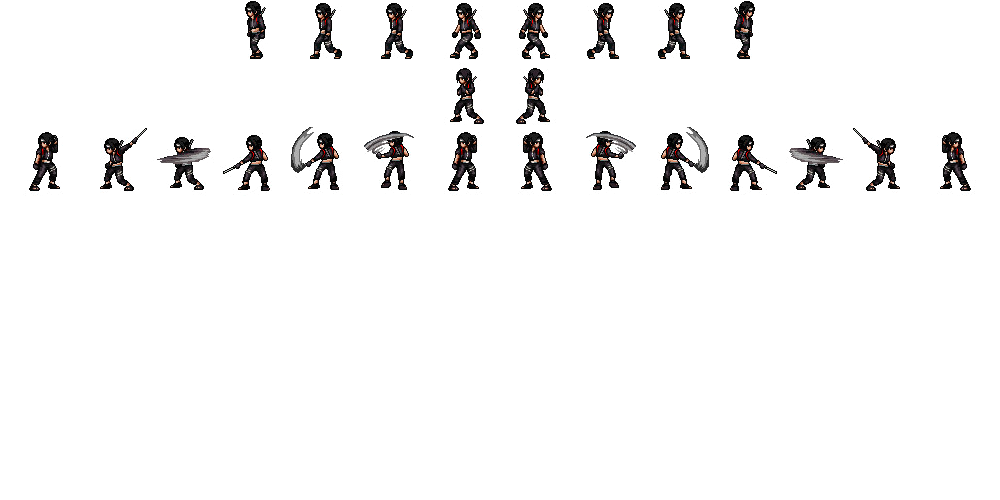
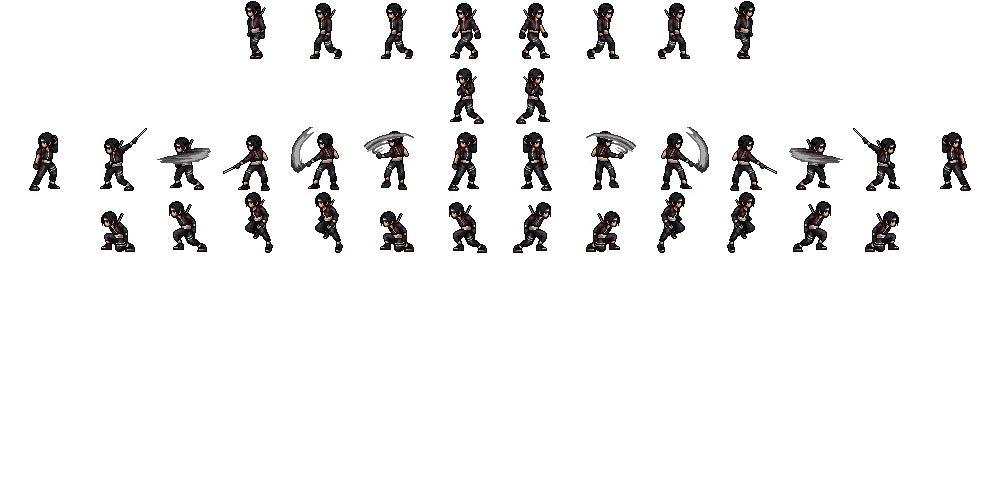
add jump move

diff --git a/ninja/js/ninja.js b/ninja/js/ninja.js
@@ -8,14 +8,16 @@ $(function() {
 		this.events();
 		this.sprite_positions = {
 			stand_r: '-500px -59px',
-			stand_l: '-440px -59px',
+			stand_l: '-430px -59px',
 			sprite_moving_animation_r: ['-500px 5px', '-570px 5px', '-640px 5px', '-710px 5px'],
-			sprite_moving_animation_l: ['-430px 5px', '-370px 5px', '-300px 5px', '-230px 5px'],
+			sprite_moving_animation_l: ['-425px 5px', '-365px 5px', '-295px 5px', '-225px 5px'],
 			sprite_atacking_animation_l: ['-430px -128px', '-360px -128px', '-290px -128px', '-220px -128px', '-150px -128px', '-80px -128px', '-20px -128px'],
-			sprite_atacking_animation_r: ['-500px -128px', '-570px -128px', '-640px -128px', '-710px -128px', '-780px -128px', '-850px -128px', '-920px -128px']
+			sprite_atacking_animation_r: ['-500px -128px', '-570px -128px', '-640px -128px', '-710px -128px', '-780px -128px', '-850px -128px', '-920px -128px'],
+			sprite_jumping_animation_r: ['-500px -191px', '-570px -191px', '-640px -191px', '-710px -191px', '-780px -191px', '-850px -191px'],
+			sprite_jumping_animation_l: ['-430px -191px', '-360px -191px', '-290px -191px', '-220px -191px', '-150px -191px', '-80px -191px']
 		};
 		this.speed = 0;
-		this.power = 0.3;
+		this.power = 0.5;
 		this.friction = 0.5;
 		console.log(this['sprite_moving_animation_' + 'r']);
 	}
@@ -27,36 +29,75 @@ $(function() {
 		$(document).on('keydown', function(event) {
 			//console.log(event.keyCode);
 			current_position = self.ninja.offset().left;
+			current_y_position = self.ninja.offset().top;
 
-			if(event.keyCode === 39) {
+			if (event.keyCode === 39) {
 				self.side = 'r';
 				self.moving(current_position);
 			}
-			if(event.keyCode === 37) {
+			if (event.keyCode === 37) {
 				self.side = 'l';
 				self.moving(current_position);
 			}
-			if(event.keyCode === 32) {
-				self.atack(current_position);
+			if (event.keyCode === 38) {
+				self.jump(current_y_position);
+			}
+
+			if (event.keyCode === 32) {
+				self.atack();
 			}
 		});
 
 		$(document).on('keyup', function(event) {
 			//console.log(event.keyCode);
 			var key = event.keyCode;
-
-			if(key === 39 || key === 37) {
+			if (key === 39 || key === 37) {
 				self.stop_moving();
 			}
 		});
 	};
 
-	Ninja.prototype.ninja_animate = function(animation) {
+
+	Ninja.prototype.moving = function(current_position) {
+		var self = this;
+
+		if (!this.animate) {
+			this.animate = true;
+			this.ninja_animate();
+		}
+		if (!this.ninja_is_moving) {
+			this.ninja_is_moving = true;
+			this.moving_coordinates = setInterval(function() {
+				if (self.side === 'r') {
+					self.speed += self.power;
+				}
+				if (self.side === 'l') {
+					self.speed -= self.power;
+				}
+
+				self.ninja.offset({
+					left: self.ninja.offset().left + self.speed
+				});
+
+				if (self.ninja.offset().left <= self.container.offset().left - 5) {
+					self.ninja.offset({
+						left: self.container.offset().left - 5
+					});
+				}
+				if (self.ninja.offset().left + self.ninja.width() - 15 >= self.container.offset().left + self.container.width()) {
+					self.ninja.offset({
+						left: self.container.offset().left + self.container.width() - self.ninja.width() + 15
+					});
+				}
+			}, 40);
+		}
+	};
+	Ninja.prototype.ninja_animate = function() {
 		var self = this;
 		var animation_sprites = this.sprite_positions['sprite_moving_animation_' + self.side];
 		var i = 0;
 		this.moving_animation = setInterval(function() {
-			if(i < animation_sprites.length) {
+			if (i < animation_sprites.length) {
 				self.ninja.css({
 					'background': 'url("img/ninja_new_strites.png") no-repeat',
 					'background-position': animation_sprites[i]
@@ -68,66 +109,79 @@ $(function() {
 		}, 100);
 	};
 
-	Ninja.prototype.moving = function(current_position) {
-		var moving_animation;
-		var sprite_count = 1;
-		var sprite_change_px = 0;
+	Ninja.prototype.jump_animate = function() {
 		var self = this;
-		if(!this.animate) {
-			this.animate = true;
-			this.ninja_animate(this.side);
-			/*this.moving_animation = setInterval(function() {
-				if(self.sprite_positions.move_right_x_pos > -700) {
-					self.ninja.css({
-						'background': 'url("img/ninja_new_strites.jpg") no-repeat',
-						'background-position': (self.sprite_positions.move_right_x_pos -= sprite_change_px)+'px '+self.sprite_positions.move_right_y_pos+'px'
-					});
-					sprite_change_px = 70;
-				} else {
-					self.sprite_positions.move_right_x_pos = -500;
-					sprite_change_px = 0;
-				}
-			}, 80);*/
-
-			this.moving_coordinates = setInterval(function() {
-				if(self.side === 'r') {
-					self.speed += self.power;
-				}
-				if(self.side === 'l') {
-					self.speed -= self.power;
-				}
-
-				self.ninja.offset({
-					left: self.ninja.offset().left + self.speed
+		var i = 0;
+		clearInterval(this.moving_animation);
+		this.animate = true;
+		var jumping_sprites = self.sprite_positions['sprite_jumping_animation_' + this.side];
+		this.jumping_animation = setInterval(function() {
+			if (i <= 2) {
+				self.ninja.css({
+					'background': 'url("img/ninja_new_strites.png") no-repeat',
+					'background-position': jumping_sprites[i]
 				});
-
-				//console.log(self.speed);
-				if(self.ninja.offset().left <= self.container.offset().left - 5) {
-					self.ninja.offset({
-						left: self.container.offset().left - 5
-					});
-				}
-				if(self.ninja.offset().left + self.ninja.width()-15 >= self.container.offset().left + self.container.width()) {
-					self.ninja.offset({
-						left: self.container.offset().left + self.container.width() - self.ninja.width()+15
-					});
-				}
-			}, 40);
-		}
+				i += 1;
+			} else {
+				clearInterval(self.jumping_animation);
+			}
+		}, 40);
 	};
 
 	Ninja.prototype.stop_moving = function() {
 		// this.side = 'o';
 		var self = this;
-				self.speed = 0;
-				clearInterval(self.moving_coordinates);
-				clearInterval(self.moving_animation);
-				self.animate = false;
-				self.ninja.css({
-					'background': 'url("img/ninja_new_strites.png") no-repeat',
-					'background-position': self.sprite_positions['stand_' + this.side]
-				});
-		console.log('stop');
+		self.speed = 0;
+		clearInterval(self.moving_coordinates);
+		clearInterval(self.moving_animation);
+		self.ninja_is_moving = false;
+		if (!this.jumping) {
+			self.animate = false;
+			self.ninja.css({
+				'background': 'url("img/ninja_new_strites.png") no-repeat',
+				'background-position': self.sprite_positions['stand_' + this.side]
+			});
+		}
+	};
+
+	Ninja.prototype.jump = function(current_y_position) {
+		var null_position = current_y_position;
+		var self = this;
+		var jump_top = 150;
+		var gravitation = 0.85;
+		var jump_speed = 5;
+		var jump_power = 4;
+		var jump_height = current_y_position - jump_top;
+
+		if (!this.jumping) {
+			this.jumping = true;
+			self.jump_animate();
+			var up = true;
+			this.jumping_move = setInterval(function() {
+				if (up && self.ninja.offset().top > jump_height) {
+					self.ninja.offset({
+						'top': self.ninja.offset().top - jump_speed * gravitation
+					});
+				} else {
+					up = false;
+					self.ninja.offset({
+						'top': self.ninja.offset().top + jump_speed
+					});
+					if (self.ninja.offset().top > null_position) {
+						self.ninja.offset({
+							'top': null_position
+						});
+						clearInterval(self.jumping_move);
+						clearInterval(self.jumping_animation);
+						self.jumping = false;
+						self.animate = false;
+						self.stop_moving();
+					}
+				}
+			}, 20);
+		} else {
+			return false;
+		}
 	};
 
 	Ninja.prototype.atack = function() {
@@ -135,11 +189,11 @@ $(function() {
 		var animation_sprites = this.sprite_positions['sprite_atacking_animation_' + this.side];
 		var i = 0;
 
-		if(!this.atacking) {
+		if (!this.atacking) {
 			//self.stop_moving(self.side);
 			var ataken = setInterval(function() {
 				self.atacking = true;
-				if(i < animation_sprites.length) {
+				if (i < animation_sprites.length) {
 					self.ninja.css({
 						'background': 'url("img/ninja_new_strites.png") no-repeat',
 						'background-position': animation_sprites[i]

diff --git a/ninja/index.html b/ninja/index.html
@@ -32,6 +32,7 @@
 </head>
 <body>
 	<p>Ninja prototype. He can go lefside and rightside.Press space to atack. Have fun =)</p>
+	<p>27.02- Now ninja can fly! Up-button. This is awesome -)). Have some small bugZ. Still working.</p>
 	<div class="ninja-container">
 		<div id="ninja"></div>
 		<div class="clear"></div>
